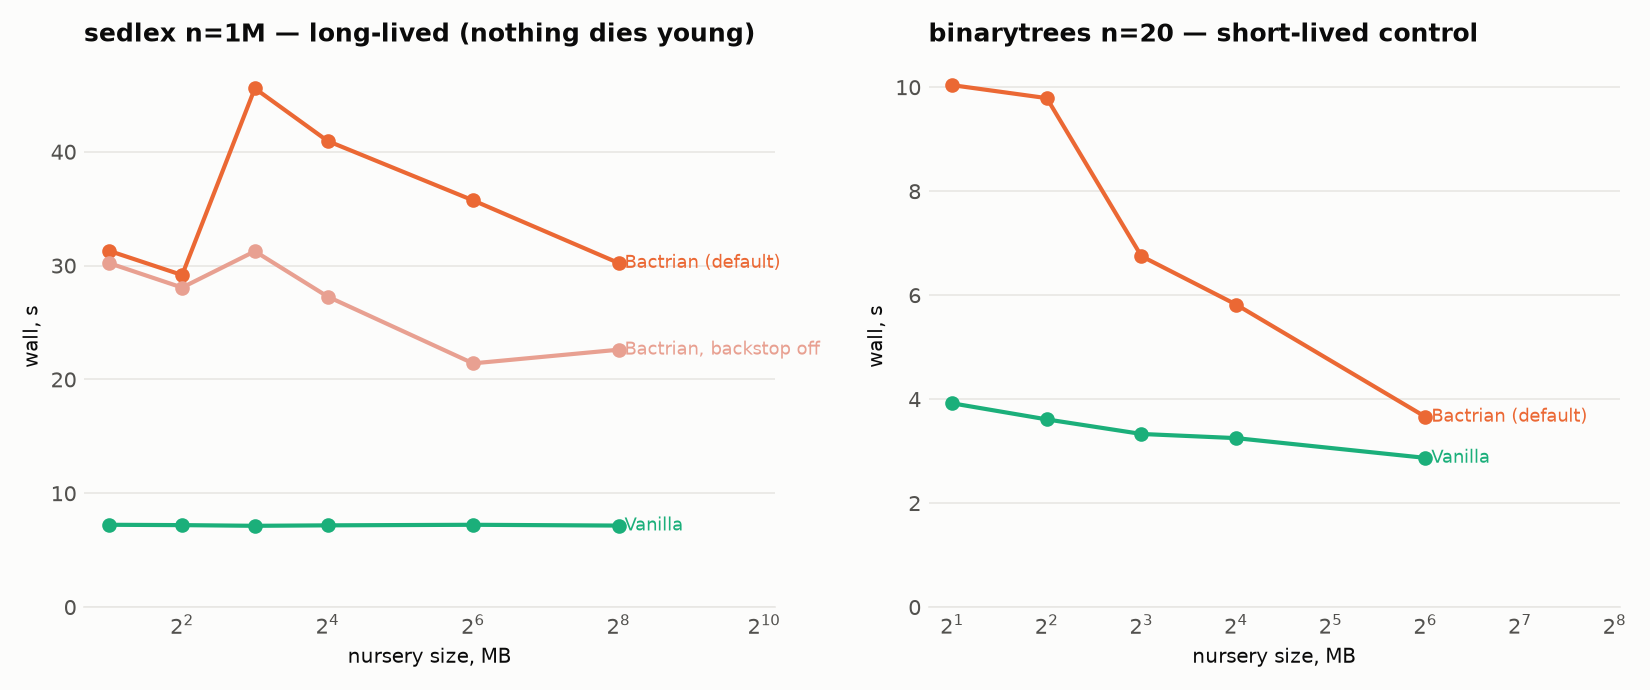
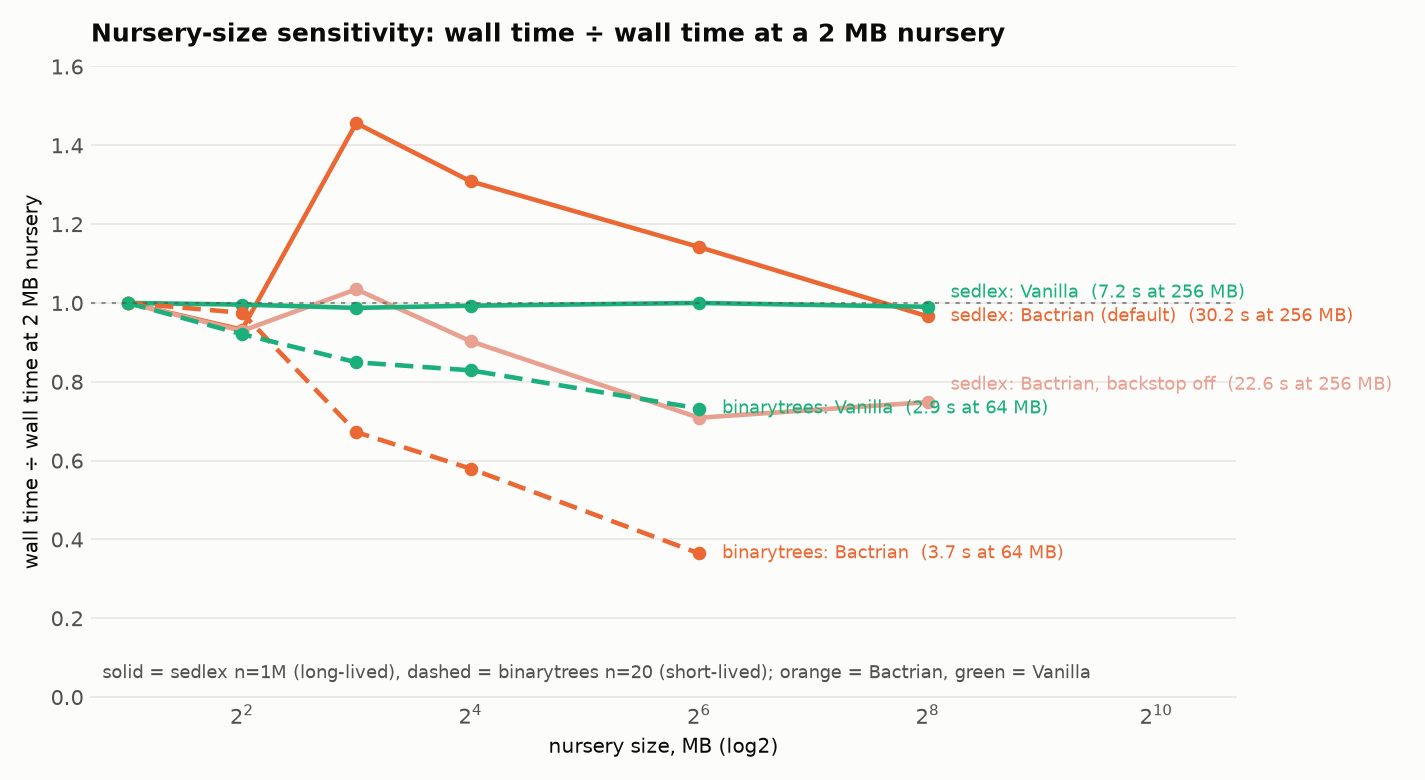
quick/sedlex: overlay the nursery-size sweep on one normalised axis
Experiment A's two autoscaled panels hid the contrast. Every series is now
normalised to its own wall time at a 2 MB nursery and drawn on one axis
(colour = runtime, line style = workload): the short-lived binarytrees
control falls to 0.37x / 0.74x by 64 MB while long-lived sedlex stays flat
(vanilla 1.0; Bactrian with the backstop off 0.7-1.0x over 2-256 MB). The
default Bactrian line's 1.46x spike at 8 MB is the sliced-to-monolithic
regime switch and is now visible rather than clipped.

diff --git a/quick/sedlex/sedlex_charts.py b/quick/sedlex/sedlex_charts.py
@@ -31,16 +31,32 @@ def series(lines, key):
     return {k:sorted(v) for k,v in out.items()}
 sed=series(rd('nursery_sweep.txt'),'sedlex'); bt=series(rd('bt_control.txt'),'bt')
 if sed or bt:
-    f,axes=plt.subplots(1,2,figsize=(11,4.6),dpi=150); f.patch.set_facecolor(SURFACE)
-    for ax,(name,data) in zip(axes,[('sedlex n=1M — long-lived (nothing dies young)',sed),('binarytrees n=20 — short-lived control',bt)]):
-        frame(ax); title(ax,name)
+    # one axis: wall time normalised to each series' own value at the smallest nursery (2 MB).
+    # colour = runtime, line style = workload. A promotion-bound workload stays near 1.0;
+    # a short-lived one falls as the nursery grows and more objects die before promotion.
+    f,ax=fig(9.5,5.2); title(ax,'Nursery-size sensitivity: wall time ÷ wall time at a 2 MB nursery')
+    style={('sedlex','Bactrian (default)'):(ORANGE,'-','sedlex: Bactrian (default)'),
+           ('sedlex','Bactrian, backstop off'):(MUTED,'-','sedlex: Bactrian, backstop off'),
+           ('sedlex','Vanilla'):(AQUA,'-','sedlex: Vanilla'),
+           ('bt','Bactrian (default)'):(ORANGE,(0,(4,2)),'binarytrees: Bactrian'),
+           ('bt','Vanilla'):(AQUA,(0,(4,2)),'binarytrees: Vanilla')}
+    ends=[]
+    for wl,data in (('sedlex',sed),('bt',bt)):
         for lbl,pts in data.items():
-            c={'Bactrian (default)':ORANGE,'Bactrian, backstop off':MUTED,'Vanilla':AQUA}[lbl]
-            xs=[p[0] for p in pts]; ys=[p[1] for p in pts]
-            ax.plot(xs,ys,color=c,linewidth=2,marker='o',markersize=6,label=lbl)
-            ax.text(xs[-1],ys[-1],f' {lbl}',fontsize=8.5,color=c,va='center')
-        ax.set_xscale('log',base=2); ax.set_xlabel('nursery size, MB',fontsize=9.5,color=TEXT1); ax.set_ylabel('wall, s',fontsize=9.5,color=TEXT1)
-        ax.set_ylim(bottom=0); ax.set_xlim(right=ax.get_xlim()[1]*3.5)
+            if (wl,lbl) not in style or not pts: continue
+            c,ls,name=style[(wl,lbl)]; base=pts[0][1]
+            xs=[p[0] for p in pts]; ys=[p[1]/base for p in pts]
+            ax.plot(xs,ys,color=c,linestyle=ls,linewidth=2.2,marker='o',markersize=5.5)
+            ends.append((xs[-1],ys[-1],c,name,f'{pts[-1][1]:.1f} s'))
+    ax.axhline(1.0,color=TEXT2,linewidth=1,linestyle=(0,(2,3)),alpha=0.6)
+    # direct labels at line ends, nudged apart if they collide
+    ends.sort(key=lambda e:e[1]); last=None
+    for x,y,c,name,abs_ in ends:
+        yy=y if last is None or y-last>0.06 else last+0.06; last=yy
+        ax.text(x*1.15,yy,f'{name}  ({abs_} at {x:.0f} MB)',fontsize=8.6,color=c,va='center')
+    ax.set_xscale('log',base=2); ax.set_xlim(1.6,2**8*6.5); ax.set_ylim(0,1.6)
+    ax.set_xlabel('nursery size, MB (log2)',fontsize=9.5,color=TEXT1); ax.set_ylabel('wall time ÷ wall time at 2 MB nursery',fontsize=9.5,color=TEXT1)
+    ax.text(0.01,0.03,'solid = sedlex n=1M (long-lived), dashed = binarytrees n=20 (short-lived); orange = Bactrian, green = Vanilla',transform=ax.transAxes,fontsize=8.5,color=TEXT2)
     save(f,'nursery_sweep.png')
 
 # ---- 2. pause-class split at n=1M ----

diff --git a/quick/sedlex/REPORT.md b/quick/sedlex/REPORT.md
@@ -50,6 +50,14 @@ workload speeds up with a bigger nursery (more objects die before promotion).
 
 ![nursery sweep](charts/nursery_sweep.png)
 
+The chart normalises every series to its own time at a 2 MB nursery so the
+five can share one axis: colour is the runtime, line style the workload. The
+two short-lived (dashed) series fall to 0.37x (Bactrian) and 0.74x (vanilla)
+by 64 MB; vanilla sedlex is a flat 1.0; Bactrian sedlex with the backstop off
+stays within 0.7-1.0x over a 128x range of nursery sizes. The default Bactrian
+sedlex line's spike to 1.46x at 8 MB is the sliced-to-monolithic regime switch
+(7 -> 11 fulls), i.e. pacing, and disappears with the backstop off.
+
 sedlex n=1M, wall (s):
 
 | nursery | 2 MB | 4 MB | 8 MB | 16 MB | 64 MB | 256 MB |
